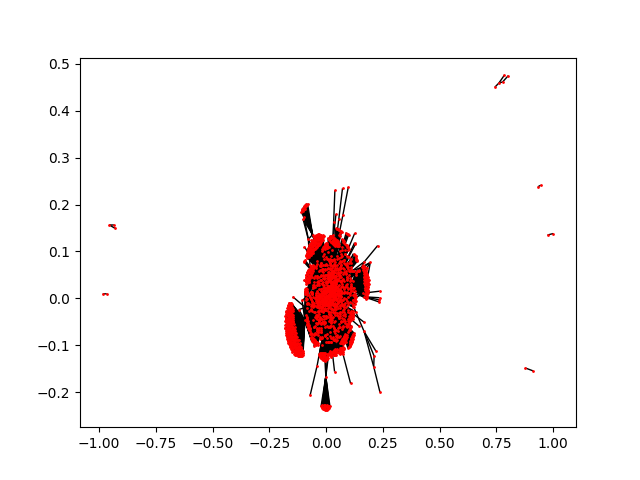
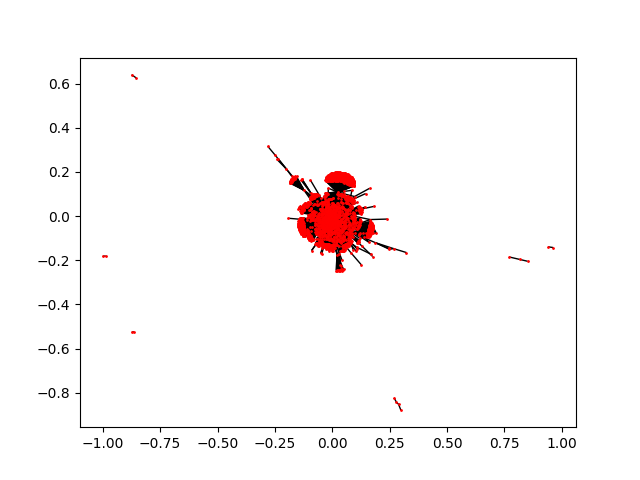
init network

diff --git a/src/node_ops/simulation.py b/src/node_ops/simulation.py
@@ -2,45 +2,104 @@
 python3 -m pip install -U matplotlib
 python3 -m pip install networkx pylightning
 """
-
 import networkx as nx
-
 import json
 import sys
+import numpy
+import random
+
+from attachment_policies import AttachmentPolicies
+
+
+def create_node(settings):
+
+	rand_id = '%066x' % random.randrange(16**66)
+
+	return {
+
+		# Usual attributes as per rpc, mostly not relevant
+		'last_timestamp': 1544034959,
+		'globalfeatures': '',
+		'nodeid': rand_id,
+		'alias': 'johnstedt',
+		'color': '000000',
+		'global_features': '',
+		'addresses': [{'port': 9735, 'address': '73.33.112.94', 'type': 'ipv4'}],
+
+		# Simulation attributes
+		'attachment_policy': settings['attachment_policy']
+	}
+
+
+def create_channel():
+	return {
+		'base_fee_millisatoshi': 1000,
+		'satoshis': 200000,
[1 lines of base64/hex data omitted]
+		'short_channel_id': '1457217x64x0',
+		'public': True,
+		'last_update': 1550232803,
[1 lines of base64/hex data omitted]
+		'delay': 144,
+		'message_flags': 1,
+		'channel_flags': 1,
+		'fee_per_millionth': 1,
+		'flags': 257,
+		'active': True
+	}
 
 
 class SimulationOperator:
 
-	__nodes = None
+	__g = None
 
 	def __init__(self):
 
 		if len(sys.argv) == 1:
-			"SUPPLY ARGS"
+			print("SUPPLY ARGS PLZ")
 			exit(0)
+
+		self.__g = nx.Graph()
+		self.__attachment = AttachmentPolicies()
 
 		for i in range(1, len(sys.argv)):
 			if sys.argv[i] == "-preset":
 				print(sys.argv[i+1])
 				if sys.argv[i+1] == "test":
-					self.build_environment("presets/test.json")
+					self.simulate("presets/test.json")
 			if sys.argv[i] == "-file":
 				print(sys.argv[i+1])
 
-	def build_environment(self, sim_file):
-
+	def simulate(self, sim_file):
 		env = json.loads(open(sim_file, "r").read())
-		print(env)
+		print(json.dumps(env, indent=2))
 
-		g = g = nx.Graph()
+		self.build_environment(env)
+		self.generate_all_shortest_paths()
+
+	def build_environment(self, env):
 
 		for n in range(0, env['environment']['initial_nodes']):
-
+			settings = numpy.random.choice(env['routing_nodes'], p=[i['initial_distribution'] for i in env['routing_nodes']])
+			node = create_node(settings)
+			self.__attachment.attach(self.__g, node, 5)
 
 		return True
 
-	def create_node(self):
-		return {}
+	def generate_all_shortest_paths(self, cutoff=10):
+
+		if cutoff < 1:
+			cutoff = 10
+
+		print(len(self.__g.edges))
+		print(len(self.__g.nodes))
+
+		all_pair_shortest_paths = nx.all_pairs_shortest_path(self.__g, cutoff=cutoff)
+		print(all_pair_shortest_paths)
+		for item in all_pair_shortest_paths:
+
+			print(item[1])
+
 
 if __name__ == "__main__":
 	SimulationOperator()

diff --git a/src/node_ops/attachment_policies.py b/src/node_ops/attachment_policies.py
@@ -1,0 +1,53 @@
+import random
+
+
+class AttachmentPolicies:
+
+	__barabasi_nodes = None
+
+	def __init__(self):
+		self.__barabasi_nodes = []
+
+	def attach(self, g, n, m):
+		print(n)
+
+		self.switch(n['attachment_policy'])(g, n, m)
+
+		return True
+
+	def barabasi_albert(self, g, n, m):
+
+		if m >= len(self.__barabasi_nodes):
+			self.random(g, n, m)
+			return False
+
+		g.add_node(n["nodeid"], **n)
+
+		targets = [self.__barabasi_nodes[i] for i in random.sample(range(len(self.__barabasi_nodes)), m)]
+		g.add_edges_from(zip([n["nodeid"]]*m, targets))
+
+		self.__barabasi_nodes.extend(targets)
+
+		self.__barabasi_nodes.extend([n["nodeid"]]*m)
+
+		return True
+
+	def random(self, g, n, m):
+
+		if m >= len(g.nodes):
+			g.add_node(n["nodeid"], **n)
+			return False
+
+		targets = random.sample(g.nodes(), m)
+		g.add_node(n["nodeid"], **n)
+
+		g.add_edges_from(zip([n["nodeid"]]*m, targets))
+		self.__barabasi_nodes.extend(targets)
+
+		return True
+
+	def switch(self, policy):
+		return {
+			"barabasi_albert": self.barabasi_albert,
+			"random": self.random
+		}[policy]

diff --git a/src/node_ops/lightning_ops.py b/src/node_ops/lightning_ops.py
@@ -37,7 +37,7 @@ class LightningOperator:
 		print("Number of nodes found: {}".format(len(nodes)))
 
 		for node in nodes:
-			graph.add_node(node["nodeid"], **node)
+			graph.add_node(node["nodeid"], object=node)
 
 		"""
 		Grab the channels
@@ -56,6 +56,7 @@ class LightningOperator:
 			return False
 
 		for channel in channels:
+			print(channel)
 			graph.add_edge(channel["source"], channel["destination"], **channel)
 
 		return True

diff --git a/src/node_ops/node.py b/src/node_ops/node.py
@@ -21,8 +21,7 @@ class NodeOperator:
 
 		lightning.populate_graph(g)
 
-		print(g.edges[0])
-		print(g.nodes[0])
[1 lines of base64/hex data omitted]
 
 		plot.plot_graph(g)
 
